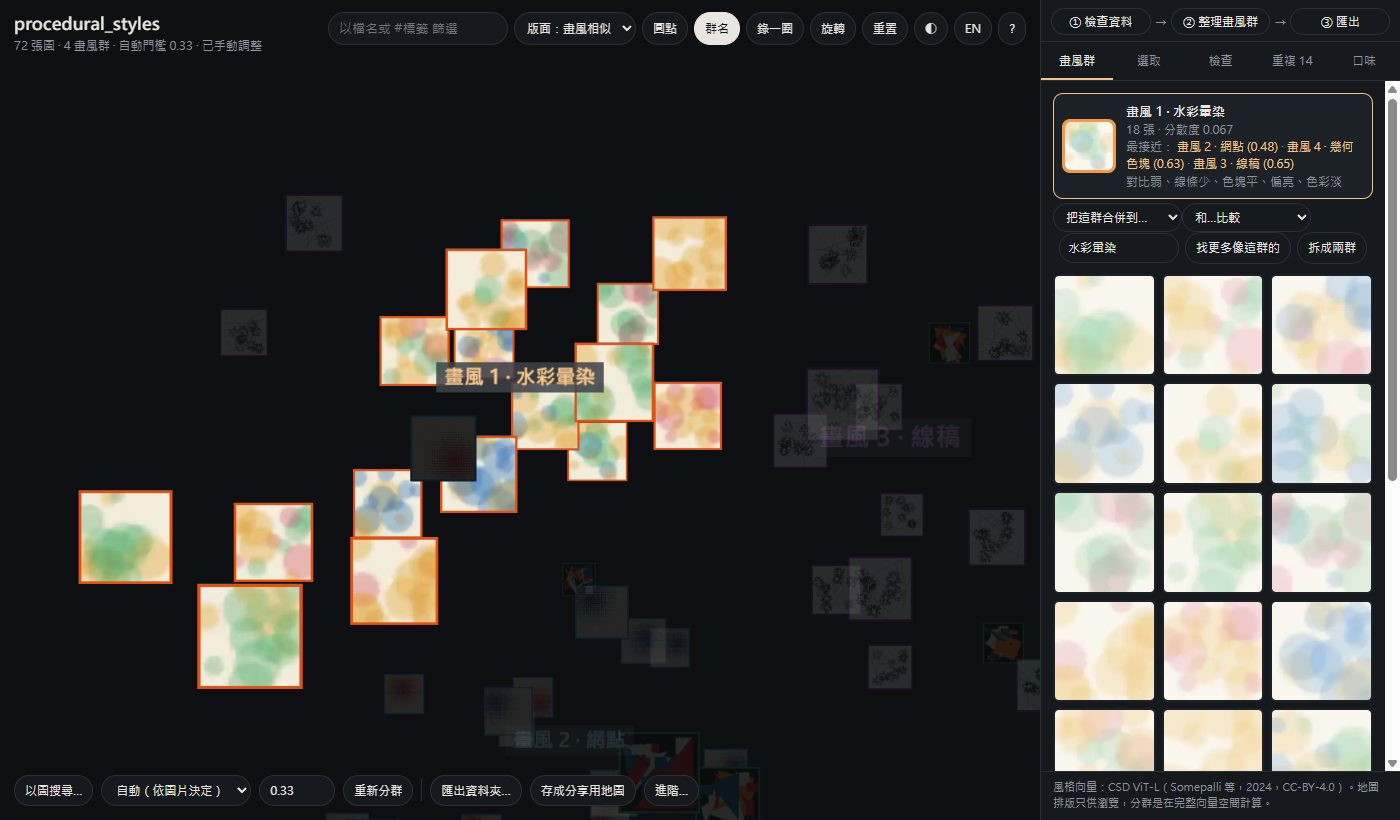
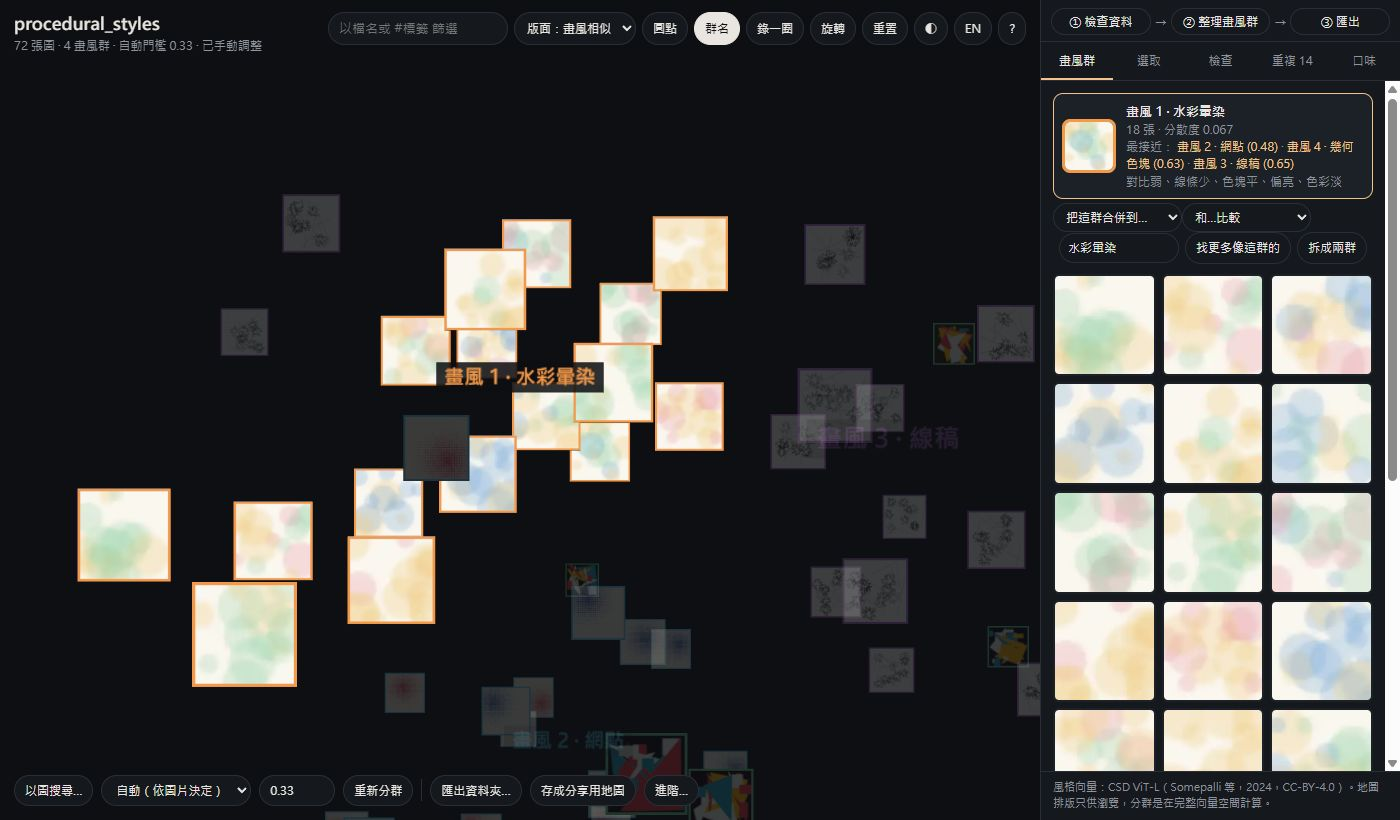
docs: illustrated web guide (zh) and screenshots with the corrected colours

diff --git a/docs/WEB_GUIDE.md b/docs/WEB_GUIDE.md
@@ -1,0 +1,66 @@
+# 網頁介面圖解：訓 LoRA 前的三個步驟
+
+把圖片資料夾拖到 `scripts\StyleAtlas.bat` 上（或直接雙擊它再選資料夾），瀏覽器就會打開下面這個畫面。右上方的「① 檢查資料 → ② 整理畫風群 → ③ 匯出」就是整個流程，照順序點即可。
+
+截圖裡的圖片是 `scripts\make_demo_images.py` 產生的抽象圖，不是任何人的作品。
+
+## ① 檢查資料
+
+![檢查分頁：按「開始檢查」列出問題圖，「選取這些」一次選起來，再用上方的「排除這 19 張」](images/guide_1_check.jpg)
+
+1. 點「① 檢查資料」，再按「開始檢查」。會列出：
+   - 太小的圖（短邊可以選 512／768／1024 px）；
+   - 混在彩色圖裡的黑白圖（例如草稿、漫畫頁）；
+   - 長寬比極端的圖、沒有標註或標註是空的、動圖、檔案不完整或打不開。
+2. 每一類都有「選取這些」。按下去，地圖上那些圖會亮起來，上方出現一條「已選 N 張」：
+   - 「排除這 N 張」：匯出時放到 `_excluded\`，不會拿去訓練；
+   - 「恢復這 N 張」：取消排除；
+   - 「移到其他群…」：一次移到某一群。
+3. 下面的「最不合群的圖」是和整組最不像的圖，也可以逐張點選後按鍵盤 X 排除。
+4. 混進了別的畫師的圖時：先排除看到的兩三張，再到同一頁的排除清單按「找更多像這些的」，其餘的通常都會排在最前面。
+
+也可以自己選：按住 Shift 點圖，或按住 Shift 在地圖上拖一個框。Esc 清除選取。
+
+## ② 整理畫風群
+
+![打開一群：可以取名、合併、拆群、和另一群比較](images/guide_2_groups.jpg)
+
+1. 點「② 整理畫風群」，右側每一張卡片是一群：
+   - 一句外觀描述，例如「偏冷、線條多」；
+   - 「最接近」的 3 群，點一下就跳過去，方便決定要不要合併。
+2. 點開一群後可以：
+   - 取名（之後的資料夾名稱和觸發詞都會用這個名字）；
+   - 「把這群合併到…」「拆成兩群」「找更多像這群的」；
+   - 「和…比較」：列出兩群的畫風距離、差異是否明顯，以及外觀差在哪裡。
+3. 分得不好時，用左下的分群選單：
+   - 同一位畫師的資料夾：選「中」，或選「時期（單一畫師）」再填段數；
+   - 改完按「重新分群」。任何修改都可以按「復原」或 Ctrl+Z 回去。
+4. 同樣的角色出現在很多畫風時，打開「進階…」勾選「忽略角色軸」。
+
+## ③ 匯出
+
+![匯出選項：kohya 格式、LoRA 名稱、每群最多幾張、要移除的標籤、標註加觸發詞](images/guide_3_export.jpg)
+
+點「③ 匯出」（或左下的「匯出資料夾…」），會打開匯出選項：
+
+| 選項 | 用途 |
+|---|---|
+| 一般資料夾 / kohya | kohya 會做成 `10_名稱_style01` 這種資料夾，並附 `dataset_config.toml` |
+| LoRA 名稱（資料夾名） | 資料夾和觸發詞的開頭 |
+| 每群最多幾張 | 某群太多時只留這麼多張，會挑能涵蓋整群變化的；其餘放到 `_trimmed\` |
+| 要移除的標籤 | 例如 `sketch, monochrome`，匯出的標註裡會拿掉這些標籤 |
+| 標註加觸發詞 | 每個標註最前面加上該群的觸發詞 |
+
+按「開始匯出」，結果放在資料夾旁邊的 `<資料夾名稱>_style_atlas\folders\`。原本的圖和標註都不會被移動或修改。
+
+## 其他好用的功能
+
+![量化軸版面：X 冷暖、Y 線條量、Z 鮮豔度](images/guide_4_measures.jpg)
+
+- **以圖找圖**：把一張或幾張圖拖進畫面。拖多張時，還會告訴你這批圖有幾張「落在這個資料夾某一群的範圍內」，可以用來檢查 LoRA 算出來的圖像不像訓練集。
+- **量化軸**：右上角「版面」切到「量化軸」，X／Y／Z 可以各選一種量測，例如冷暖、線條量、鮮豔度、口味分數、原創度。
+- **原創度**：在「進階…」填一個已知畫風的資料夾（畫師作品、配方），按「載入參考」，量化軸就會多出「離參考集距離」。
+- **#標籤篩選**：上方的篩選框打 `#monochrome`，只亮出標註裡有這個標籤的圖。
+- **錄一圈**：把 3D 地圖轉一圈錄成 8 秒的影片，可以直接分享。
+- **存成分享用地圖**：存成單一 HTML 檔，傳給朋友就能打開。
+- 按 `?` 看所有快捷鍵；滑鼠停在按鈕上會有說明。

diff --git a/CHANGELOG.md b/CHANGELOG.md
@@ -2,6 +2,9 @@
 
 ## Unreleased
 
+- **Illustrated web guide** in Traditional Chinese, `docs/WEB_GUIDE.md`: the three steps (check, sort
+  the styles, export) and the other tools, with screenshots. All screenshots were retaken with the
+  corrected colours.
 - **Fix: true colours on the 3D map.** The thumbnails were decoded from sRGB but never encoded
   back for the screen, so every image on the map looked darker and more saturated than the file
   (the demo's yellow 255,183,3 showed as orange 255,121,0; group-colour dots likewise). Group
